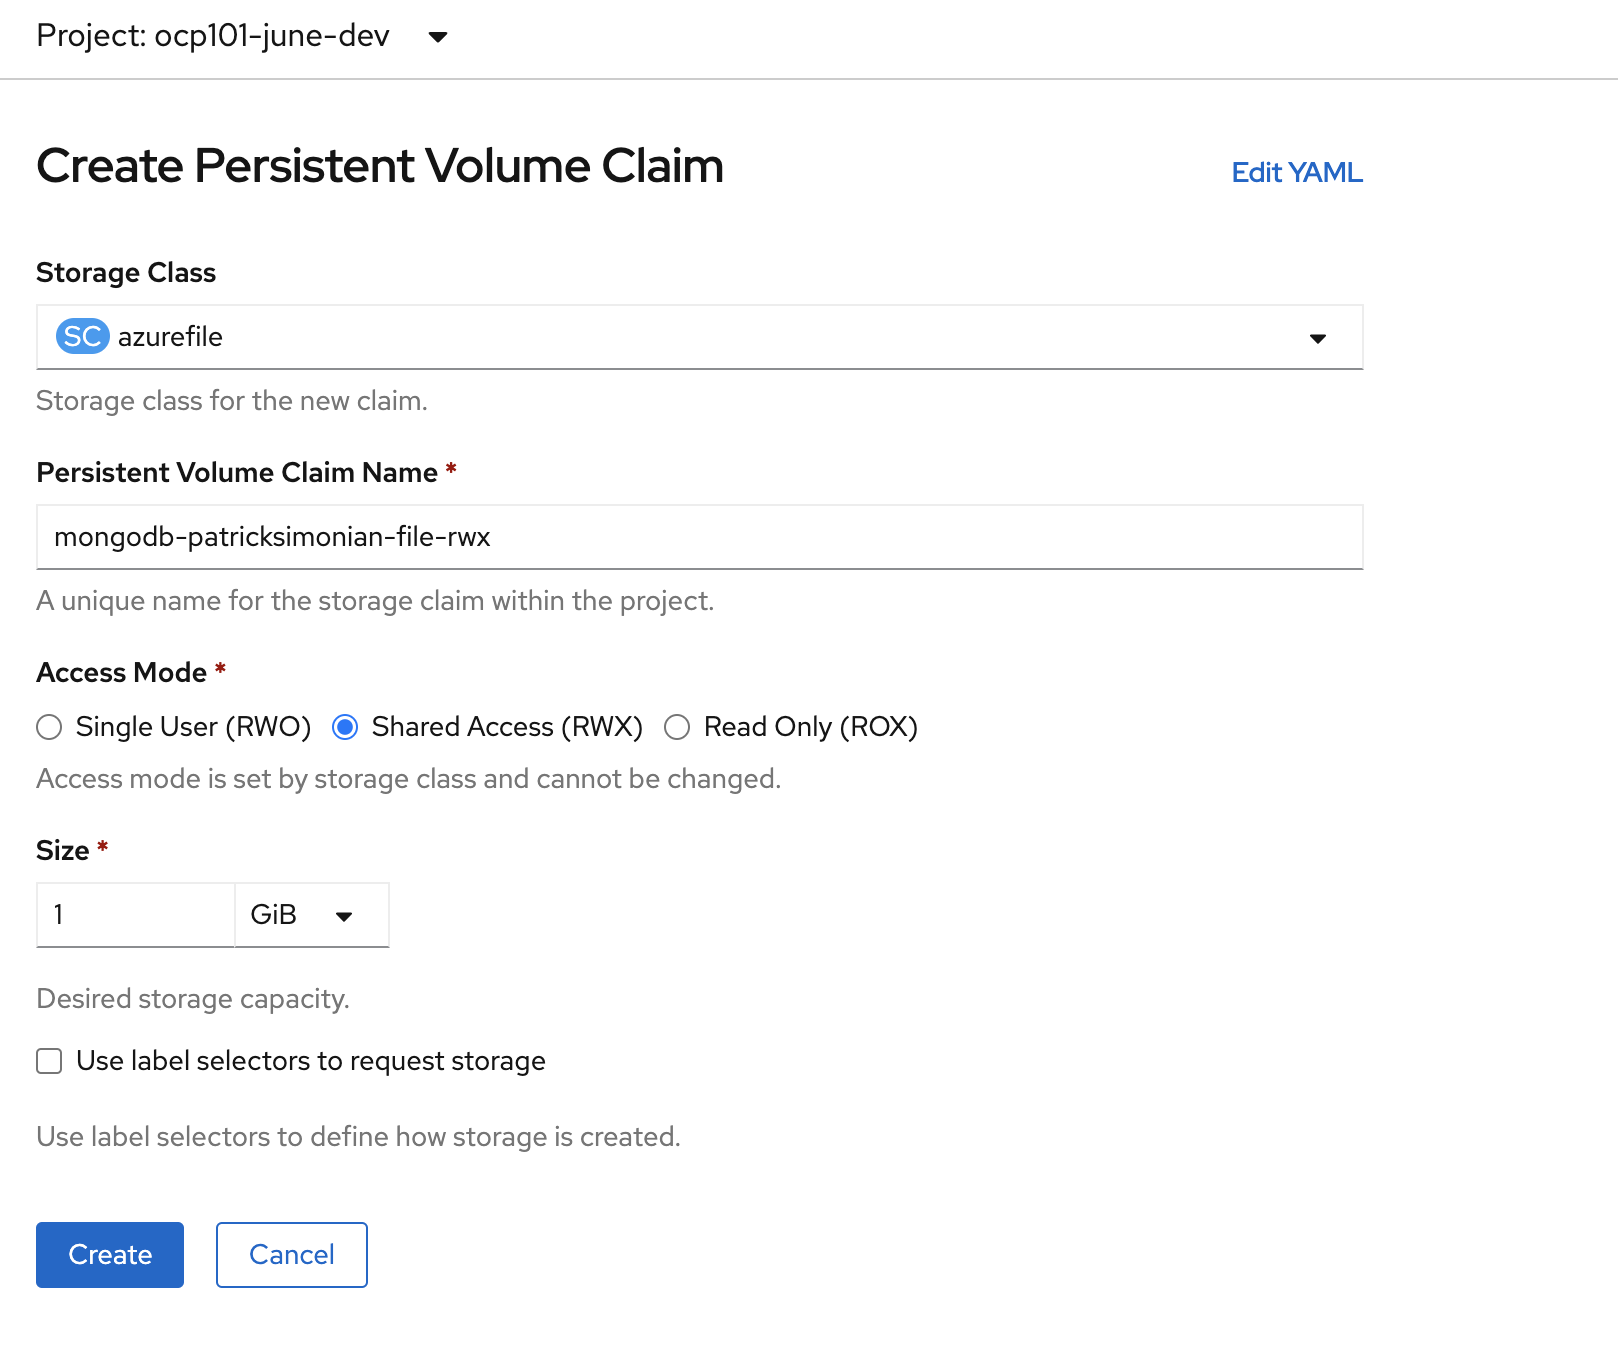
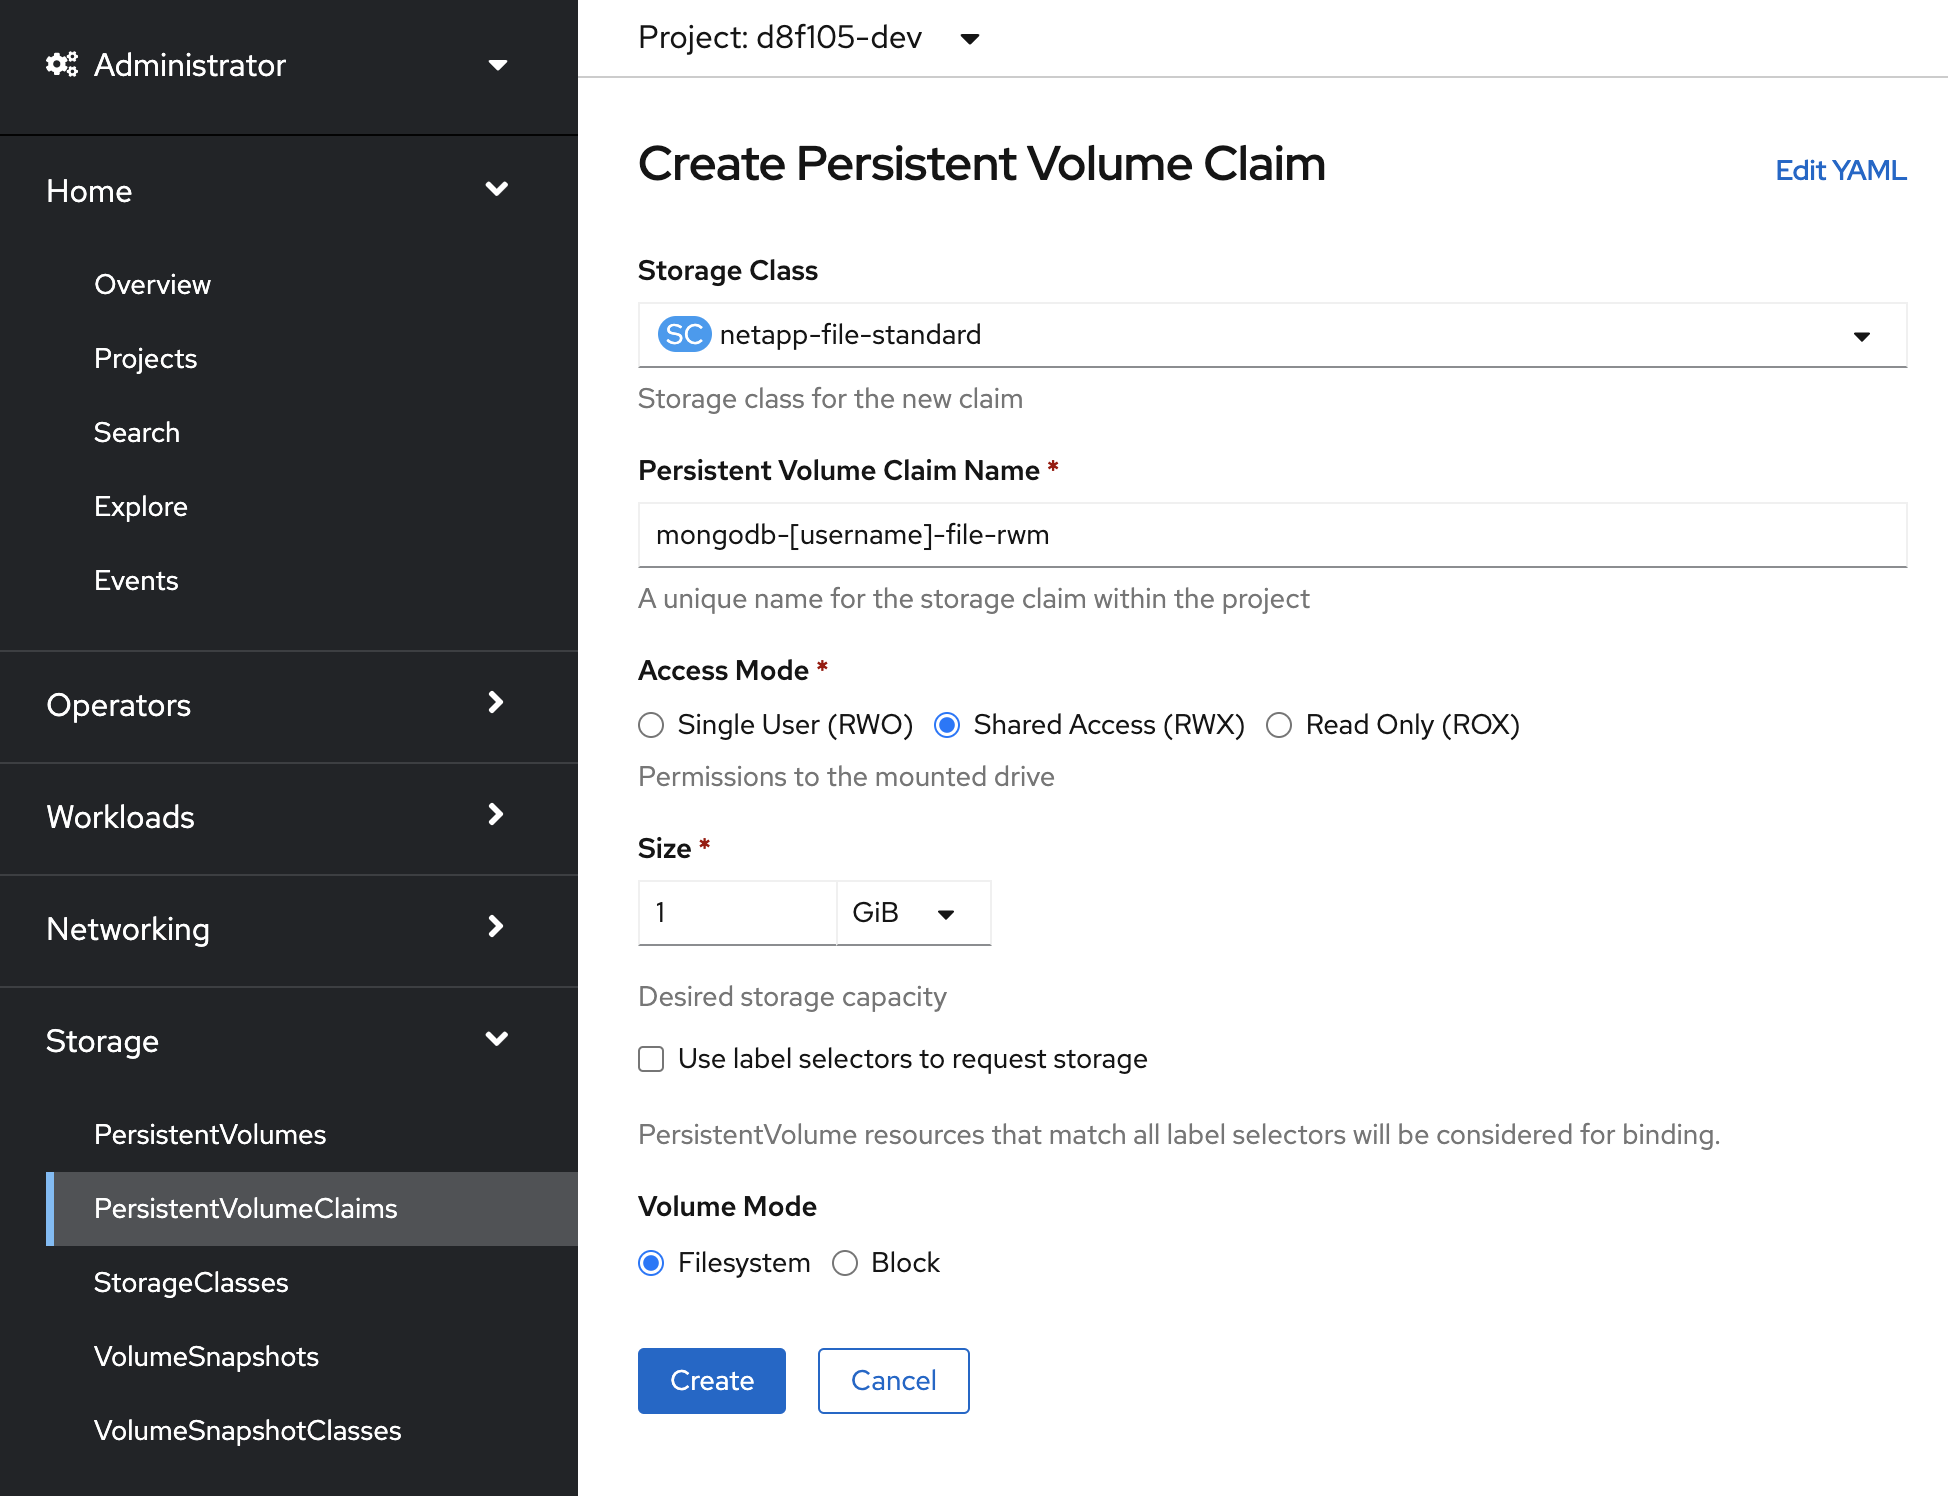
Ocp101 lab storage fix (#106)
* update storage type to match silver cluster

* update storage screenshots

* remove notes

diff --git a/101-lab/content/08_persistent_storage.md b/101-lab/content/08_persistent_storage.md
@@ -34,15 +34,12 @@ Now that we notice all messages and configuration is gone whenever pods cycle, l
 
 ![](./images/06_persistent_storage_04a.png)
 
-  - Select the `managed-premium` storage class. Set the type to RWO, the size to 1GB, and name it `mongodb-[username]-file`
+  - Select the `netapp-file-standard` storage class. Set the type to RWO, the size to 1GB, select `Filesystem` mode, and name it `mongodb-[username]-file`
 
   - Navigate back to your Mongo DeploymentConfig and select `Add Storage` from the `Actions` Tab
 
   - The mount path is `/var/lib/mongodb/data`
 ![](./images/06_persistent_storage_04b.png)
-
-
-> PLEASE NOTE: The storage classes you are interacting with are specific to this Azure-based Openshift Cluster. The production Openshift Cluster utilizes different storage classes. From an application perspective that are slight differences in performance typically but the implementation remains the same. 
 
 
 - Scale up `mongodb-[username]` instance to 1 pod
@@ -93,9 +90,10 @@ RWX storage allows multiple pods to access the same PV at the same time.
   ```oc:cli
   oc -n [-dev] scale dc/mongodb-[username] --replicas=0
   ```
+
 ![](./images/06_persistent_storage_09.png)
 
-- Remove the previous storage volume and recreate as `managed-premium` (mounting at `/var/lib/mongodb/data`) with type RWX, and naming it `mongodb-[username]-file-rwx`
+- Remove the previous storage volume and recreate as `netapp-file-standard` (mounting at `/var/lib/mongodb/data`) with type RWX, and naming it `mongodb-[username]-file-rwx`
 
   ![](./images/06_persistent_storage_10.png)
   ```oc:cli
@@ -104,7 +102,7 @@ RWX storage allows multiple pods to access the same PV at the same time.
   oc -n [-dev] get dc/mongodb-[username] -o jsonpath='{.spec.template.spec.volumes[].name}{"\n"}' | xargs -I {} oc -n [-dev] set volumes dc/mongodb-[username] --remove '--name={}'
 
   # Add a new volume by creating a PVC. If the PVC already exists, omit '--claim-class', '--claim-mode', and '--claim-size' arguments
-  oc -n [-dev] set volume dc/mongodb-[username] --add --name=mongodb-[username]-data -m /var/lib/mongodb/data -t pvc --claim-name=mongodb-[username]-file --claim-class=managed-premium --claim-mode=ReadWriteMany --claim-size=1G
+  oc -n [-dev] set volume dc/mongodb-[username] --add --name=mongodb-[username]-data -m /var/lib/mongodb/data -t pvc --claim-name=mongodb-[username]-file --claim-class=netapp-file-standard --claim-mode=ReadWriteMany --claim-size=1G
   ```
 - Scale up `mongodb-[username]` to 1 pods
   ```oc:cli
@@ -120,7 +118,7 @@ RWX storage allows multiple pods to access the same PV at the same time.
 ### Fixing it
 __Objective__: Fix corrupted MongoDB storage by using the correct storage class for MongoDB.
 
-After using the `azure-file` storage class (RWX) with rolling deployment, you got to a point where your mongodb is now corrupted. That happens because MongoDB does NOT support multiple processes/pods reading/writing to the same location/mount (`/var/lib/mongodb/data`) of single/shared pvc.
+After using the `RWX` PVC with rolling deployment, you got to a point where your mongodb is now corrupted. That happens because MongoDB does NOT support multiple processes/pods reading/writing to the same location/mount (`/var/lib/mongodb/data`) of single/shared pvc.
 
 To fix that we will need to replace the `RWX` PVC with a `RWO` PVC and change the deployment strategy from `Rolling` to `Recreate` as follow:
   - Scale down `rocketchat-[username]` to 0 pods

diff --git a/101-lab/content/12_logging_and_visualizations.md b/101-lab/content/12_logging_and_visualizations.md
@@ -1,9 +1,7 @@
 # Logging and Visualizations
 
-> Logging in the Openshift Azure Training Cluster does not leverage Kibana for log surfacing and aggregation. For reference these exercises are available so that you can reference it incase you are using Kibana in the 4.x production cluster. 
-
 ### EFK for Aggregated Logs
-The OpenShift platform provides an aggregated logging stack that is automatically configured to centralize and store logs from application pods. These logs are only retained for a short period of time, currently about 14 days, but can be used to help identify issues with appliation pods. 
+The OpenShift platform provides an aggregated logging stack that is automatically configured to centralize and store logs from application pods. These logs are only retained for a short period of time, currently about 14 days, but can be used to help identify issues with application pods. 
 
 Kibana is the primary interface for viewing and querying logs. 
 
